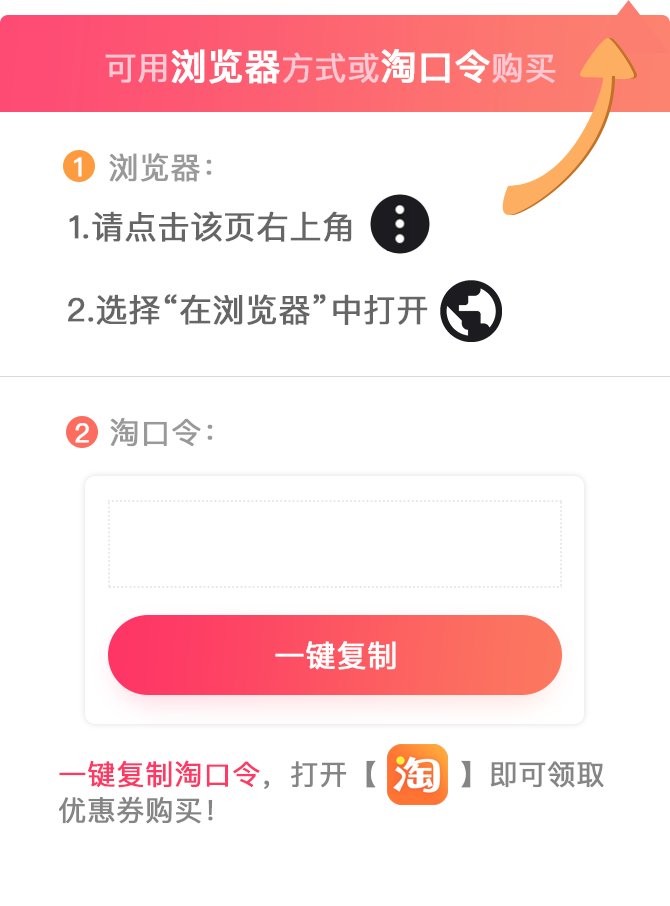
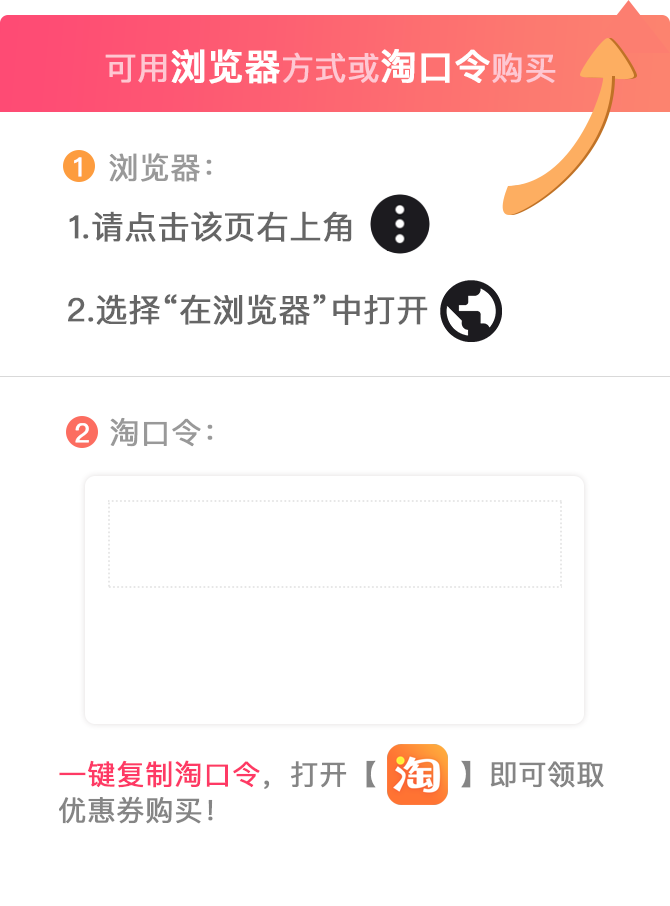
taokouling

Changed region(s): [[0.1493, 0.6799, 0.8358, 0.7726]]

diff --git a/src/components/helper/Cover.vue b/src/components/helper/Cover.vue
@@ -2,15 +2,25 @@
   <div id="cover">
     <img v-if="isWeiXin === 'ios'" src="../../assets/img/taokey_ios.png" alt="">
     <img v-if="isWeiXin === 'android'" src="../../assets/img/taokey_android.png" alt="">
-    <input id="copyTarget" v-model="taoKey" readonly />
-    <button class="copyBtn" data-clipboard-target="#copyTarget">一键复制</button>
+    <input id="copyTarget" class="copyTarget" type="text" v-model="taoKey" readonly v-if="isSupportCopy" />
+    <span id="copySpan" class="copyTarget" v-if="!isSupportCopy">{{taoKey}}</span>
+
+    <button class="copyBtn copy-pos" v-if="isSupportCopy" data-clipboard-target="#copyTarget">一键复制</button>
+    <span class="copyText copy-pos" v-if="!isSupportCopy">长按上方框内淘口令进行复制</span>
+
     <button class="close-btn" @click="hideCover()"></button>
   </div>
+
 </template>
 <script>
   import Clipboard from 'Clipboard'
 
   export default {
+    data() {
+      return {
+        isSupportCopy: true
+      }
+    },
     computed: {
       isWeiXin() {
         return this.$store.state.isWeiXin
@@ -20,17 +30,39 @@
       }
     },
     mounted() {
+      this.isSupportCopy = Clipboard.isSupported()
+
       var clipboard = new Clipboard('.copyBtn')
-			const self = this
+
+      const self = this
       clipboard.on('success', function (e) {
         alert('淘口令复制成功！')
-				MtaH5.clickStat("detailtaokey")
-				self.hideCover();
+        MtaH5.clickStat("detailtaokey")
+        self.hideCover();
+      });
+      clipboard.on('error', function (e) {
+        alert('您的浏览器不支持，请手动复制！')
       });
     },
     methods: {
       hideCover() {
         document.getElementById('cover').style.display = 'none';
+      },
+      selectTaoKey(e) {
+        console.log(e)
+        var ctrl = document.getElementById('copySpan');
+        var range, selection;
+        if (window.getSelection) {
+          selection = window.getSelection();
+          range = document.createRange();
+          range.selectNodeContents(ctrl);
+          selection.removeAllRanges();
+          selection.addRange(range);
+        } else if (document.body.createTextRange) {
+          range = document.body.createTextRange();
+          range.moveToElementText(ctrl);
+          range.select();
+        }
       }
     }
   }
@@ -39,7 +71,7 @@
 <style rel="stylesheet/scss" lang="scss">
   #cover {
     padding: 0.1rem 0.4rem;
-    #copyTarget {
+    .copyTarget {
       position: absolute;
       top: 5.3rem;
       width: 4.6rem;
@@ -49,18 +81,30 @@
       text-align: center;
       font-size: 0.32rem;
       background-color: transparent;
+      -webkit-user-select: text;
+      user-select: text;
     }
 
     .copyBtn {
+      background-image: linear-gradient(90deg, #fe3665, #fc775f);
+      border: none;
+      color: #fff;
+      font-size: 0.3rem;
+      border-radius: 5rem;
+    }
+    .copy-pos {
       position: absolute;
       top: 6.25rem;
       width: 4.5rem;
       height: 0.78rem;
       left: 50%;
       margin-left: -2.25rem;
-      border: 1px solid #000;
-      border-radius: 5rem;
-      opacity: 0;
+    }
+    .copyText {
+      font-size: 0.26rem;
+      color: #fe3665;
+      top: 6.5rem;      
+      text-align: center;
     }
     .close-btn {
       display: block;
@@ -73,8 +117,8 @@
       border-radius: 50%;
       padding: 0.3rem;
       background-color: transparent;
-			margin: 0 auto;
-			margin-top: 0.8rem;
+      margin: 0 auto;
+      margin-top: 0.8rem;
     }
     .close-btn::before,
     .close-btn::after {

diff --git a/src/views/detail/index.vue b/src/views/detail/index.vue
@@ -4,7 +4,7 @@
     <div class="item-detail">
       <div class="item-carousel">
         <swiper :options="swiperOption">
-          <swiper-slide v-for="pic of item.tbImgList" :style="{'backgroundImage':`url(${pic})`}"></swiper-slide>
+          <swiper-slide v-if="item.tbImgList" v-for="pic of item.tbImgList" :style="{'backgroundImage':`url(${pic})`}"></swiper-slide>
           <div class="swiper-pagination" slot="pagination"></div>
         </swiper>
       </div>
@@ -29,7 +29,8 @@
 
     <div class="item-picture" v-if="item.detailInfoList.length>0&&itemToggle==='detail'">
       <div class="">
-        <img v-for="img of item.detailInfoList" :src="img" alt="" width="100%">
+        <img v-for="img of item.detailInfoList" width="100%" class="lazy" v-lazy="img">
+
       </div>
       <!--<span class="open-click" @click="openDetail()">{{ isOpenDetail?'收起图文详情':'查看图文详情' }}</span>-->
     </div>
@@ -121,9 +122,8 @@
       this.$store.dispatch('setIsHiddenNav', true)
     },
     mounted() {
-
       this.getItemData();
-
+      this.getTaoKey();
     },
     beforeDestroy() {
       this.$store.dispatch('setIsHiddenNav', false)
@@ -184,6 +184,26 @@
           //   iframe.addEventListener('load', iframeCallback)
           //   document.body.appendChild(iframe)
           // }
+        })
+      },
+      getTaoKey() {
+        const api = Utils.server() + '/1.0/h5/batch/search'
+        const itemId = this.$route.params.itemId
+        const params = {
+          appKey: appKey,
+          data: Utils.stringify({
+            "taoKouLing": {
+              "itemId": itemId
+            },
+          })
+        };
+
+        this.$http.get(api, {
+          params: params
+        }).then((response) => {
+          const res = JSON.parse(response.body)
+          console.log(res)
+          this.$store.dispatch('setTaoKey', res.data.itemTaoKouLingRes.data.taoKouLing)
         })
       },
       bcClick(id, title, url) {

diff --git a/src/components/goods/HalfWidthProduct.vue b/src/components/goods/HalfWidthProduct.vue
@@ -20,8 +20,8 @@
           <span class="coupon" v-if="product.isHasActivity">券后价</span>
           <span class="price-gray">¥ {{product.originPrice}}</span>
         </p>
+        
       </div>
-
     </a>
   </div>
 
@@ -149,7 +149,6 @@
         color: #555;
         line-height: 0.34rem;
         min-height: 0.9rem;
-        height: 0.33rem;
         overflow: hidden;
         margin-bottom: 0.24rem;
         word-wrap: break-word;

diff --git a/src/components/App.vue b/src/components/App.vue
@@ -131,7 +131,7 @@
             MtaH5.clickStat('shouye', {
               'index': 'true'
             })
-            this.$router.push({
+            this.$router.replace({
               path: '/lg/channel_id=' + channelsRes[0].id + '?appKey=' + appKey + '&ADTAG=' + adTag
             })
           }

diff --git a/src/views/channel/index.vue b/src/views/channel/index.vue
@@ -54,6 +54,8 @@
 	import OutBanner from '@/components/goods/item/OutBanner'
 	import InfiniteLoading from 'vue-infinite-loading'
 	import Utils from '@/assets/js/utils'
+    import changeTitle from '@/assets/js/changeTitle'
+
 	import { mapGetters } from 'vuex'
   export default {
     computed: {

diff --git a/config/index.js b/config/index.js
@@ -29,8 +29,7 @@ module.exports = {
     assetsPublicPath: '/',
     proxyTable: {
       '/1.0': {
-        // target: 'http://pre.adbaitai.com',
-        target: 'http://192.168.10.229:8080',
+        target: 'http://pre.adbaitai.com',
         changeOrigin: true
       }
     },

diff --git a/src/assets/css/reset.css b/src/assets/css/reset.css
@@ -64,11 +64,9 @@ a {
 }
 * {
 	box-sizing: border-box;
-  -webkit-user-select: none;
-  -moz-user-select: none;
-  -o-user-select: none;
-  user-select: none;
+ 
 }
+
 
 html {
   font-family: sans-serif;
